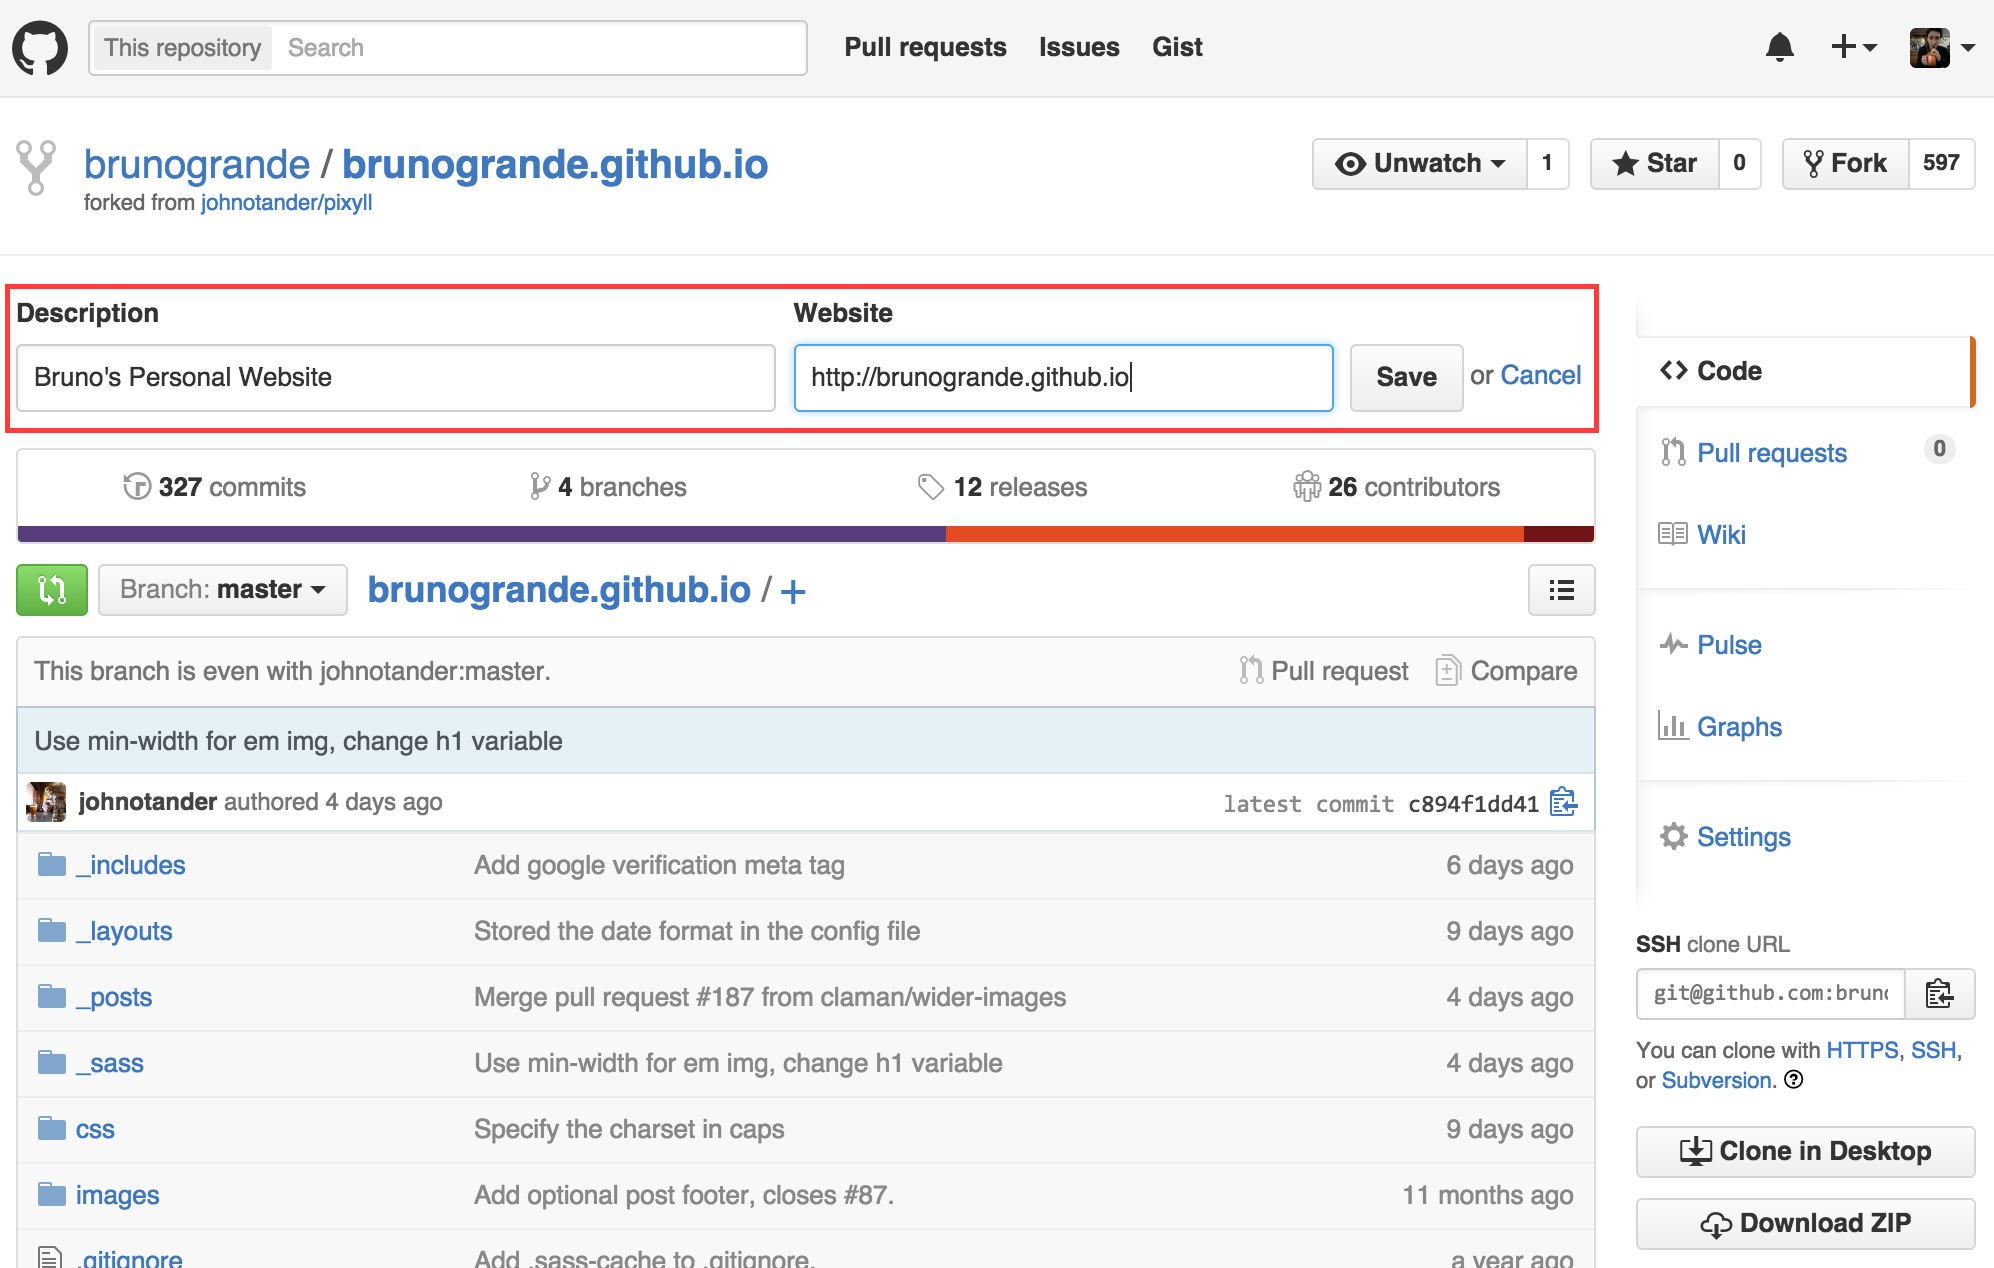
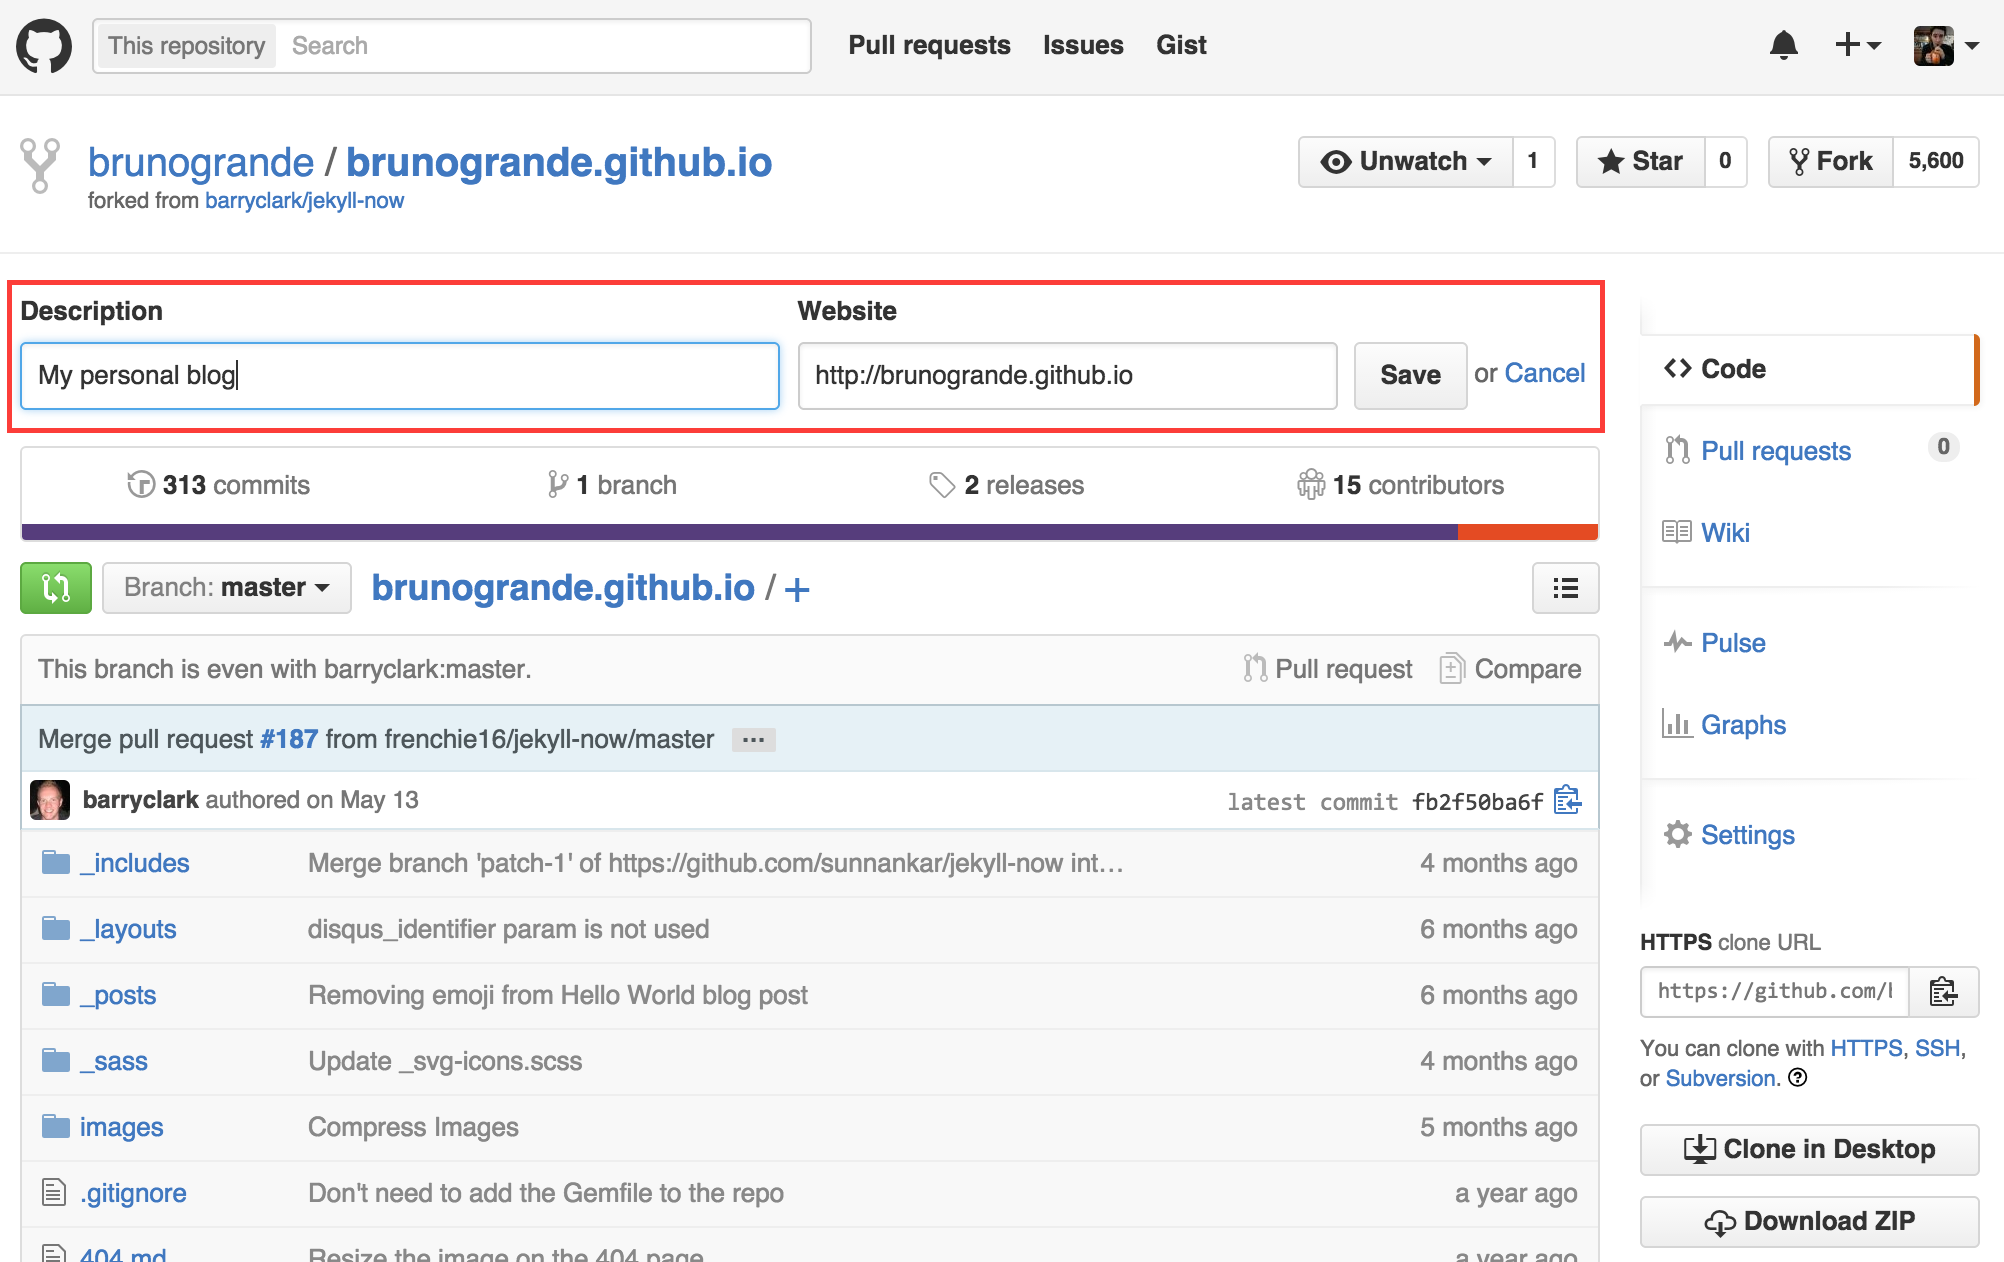
updated lesson to use jekyll now template

diff --git a/lesson/lesson.md b/lesson/lesson.md
@@ -46,17 +46,15 @@ GitHub Pages. This just comes to show how powerful it can be.
 You can write your own website from scratch, but that takes time
 and knowledge about HTML, CSS, JavaScript and Jekyll, the underlying
 platform used by GitHub Pages. Instead, we'll kickstart our website
-by using a template. For this lesson, I'll be using the [Pixyll template]
-(https://github.com/johnotander/pixyll), but there are [many options]
-(http://jekyllthemes.org/) out there. I mostly learned HTML and CSS by
-starting off with a template and tweaking it bit by bit. You can do the
-same!
+by using a template. For this lesson, I'll be using the [Jekyll Now template]
+(https://github.com/barryclark/jekyll-now), but there are [many options]
+(http://jekyllthemes.org/) out there. 
 
-The Pixyll template repository is owned by [John Otander]
-(https://github.com/johnotander), meaning that we can't edit it as is. 
+The Jekyll Now template repository is owned by [Barry Clark]
+(https://github.com/barryclark), meaning that we can't edit it as is. 
 We need to create a copy of the repository under our account first. This
 is called forking the repository. You may visit the [repository page]
-(https://github.com/johnotander/pixyll) and click the Fork button at the
+(https://github.com/barryclark/jekyll-now) and click the Fork button at the
 top-right. If GitHub prompts your to select an account to store the fork
 under, choose your personal GitHub account. 
 
@@ -70,7 +68,7 @@ address. To rename your repository, visit the Settings page.
 ![Rename](images/2-rename.png)
 
 Let's change the repository's description to something more adequate.
-For example, the description can be "My Personal Website" and the
+For example, the description can be "My personal blog" and the
 website will be the same URL as above, `<username>.github.io`. You
 can edit the description by clicking the "Edit" link beneath the 
 repository name at the top. 
@@ -87,10 +85,11 @@ sure you click the small HTTPS link and then copy the repository link.
 ![Link](images/4-link.png)
 
 Now, open a Bash shell. Navigate to where you want to store your local 
-copy of the website. For instance, I have a `Repos` directory. Then, 
-run the git clone command using the link your copied. Git might ask
-for your GitHub login information. You may avoid this by [setting up
-SSH keys](https://help.github.com/articles/generating-ssh-keys/). 
+copy of the website. For instance, I have a `Repos` directory where I 
+store all of my Git repositories. Then, run the git clone command using 
+the link your copied. Git might ask for your GitHub login information. 
+You may avoid this by [setting up SSH keys]
+(https://help.github.com/articles/generating-ssh-keys/). 
 
 ```bash
 # Create a Repos directory in your home folder
@@ -108,31 +107,45 @@ do next.
 
 ### Personalizing your Website
 
-Now that you've cloned your website repository, we need to make a few
-changes. First of all, we need to delete the file called `CNAME`, 
-whichis meant to be used for custom domains. Otherwise, we'll keep 
-receiving email notifications that the CNAME is already taken. 
+With this template, the first step to personalizing your blog
+is editing the configuration file, namely `_config.yml`. This
+file contains a few site-wide attributes, such as the blog
+title and the image displayed at the top-left. Open `_config.yml`
+and edit it to your liking. 
+
+For the avatar, you can use your GitHub avatar. To get the URL,
+visit your GitHub profile, right-click your profile picture and
+select "Copy Image URL" (or the equivalent in your browser).
+
+----
+
+Those who took the time to install Jekyll can preview their
+blog locally by running the following command in a new Bash shell
+within their blog repository. To install Jekyll, run the command
+`gem install github-pages` (OS X and Linux only; sorry, Windows 
+users). You might have to run it with `sudo` prepended to the 
+command.
 
 ```bash
-# Enter your repository directory
-cd <username>.github.io
-# Delete the CNAME file
-rm CNAME
+jekyll serve --watch
 ```
 
-This is a small change, but let's save it by committing it to the
-Git repository. If you run `git status` in your repository, you'll
-be given a list of changes. Here, we should only have one change: 
-the CNAME file we deleted (see below for example output). 
+----
+
+Now that we've started personalizing our blog, we should save
+this change. In Git parlance, this is called committing. If you
+run `git status` in your repository, you should obtain a list of 
+changed files. In this case, it should only be one file: _config.yml.
+Here's what the output of `git status` should look like.
 
 ```
 On branch master
 Your branch is up-to-date with 'origin/master'.
 Changes not staged for commit:
-  (use "git add/rm <file>..." to update what will be committed)
+  (use "git add <file>..." to update what will be committed)
   (use "git checkout -- <file>..." to discard changes in working directory)
 
-	deleted:    CNAME
+	modified:   _config.yml
 
 no changes added to commit (use "git add" and/or "git commit -a")
 ```
@@ -141,7 +154,7 @@ When we commit a change like this one, it allows us to track each
 edit we make and this grants us the power of reverting a specific 
 change if we mess up. There are two steps to committing a change:
 
-1. Adding the change to the stage. 
+1. Adding the change to the staging area.
 	- This allows us to pick and choose which changes we want to 
 	commit first, in case there are multiple changes in the repository.
 	- In our case, we only have one change, so this step seems a bit
@@ -153,39 +166,44 @@ change if we mess up. There are two steps to committing a change:
 Using the command-line, we achieve these steps as follows. 
 
 ```bash
-# Include all changes made in the repository for the next commit
-# Here, the . refers to the current directory, namely the entire repository
-git add .
+# Add the changed file to the staging area
+git add _config.yml
 # Commit the changes by giving a message describing the change
-git commit -m 'deleted CNAME file'
+git commit -m 'personalized config'
 ```
 
 This change is now registered as a commit locally, but GitHub isn't
-aware of the change yet. For that, we need to push the commits we've 
-created since running `git clone` to GitHub. In this case, we only have
-one. For this, you simply run `git push`. 
+aware of the change yet. If you were to visit the repository's GitHub
+page, you will notice that `_config.yml` is unchanged. In order to sync
+our repositories, namely the one we cloned locally and the one on Github,
+we need to upload our commits. This is done using the `git push` command.
+You might have to enter your GitHub login information here. This is
+to prove that you are indeed the owner of the repository. 
 
 ```bash
-# Push your changes to GitHub.com
+# Upload/push your changes to GitHub
 git push
 ```
 
-Now, if you visit the GitHub page for your website, you should see your
+Now, if you visit the GitHub page for your repository, you should see your
 commit. 
 
 ![Commit](images/5-commit.png)
+
+And if you visit your actual blog URL (`<username>.github.io`), you can
+see your changes live on the Internet! It might take a few minutes for it
+to update.
+
+![Blog](images/6-blog.png)
+
+### Writing Your First Blog Post
 
 ----
 
 #### Challenge Problem 1
 
-Edit the _config.yml file according to your preferences. When you're done, 
-commit and push those changes to GitHub.
-
-**Hint:** If you've installed Jekyll, you can preview your website locally
-by opening a new Bash shell, changing to your repository directory and 
-running `jekyll serve`. There will be a URL (_e.g._ http://127.0.0.1:4000/) 
-you can visit. 
+Edit the `_posts/2014-3-3-Hello-World.md` file as your first blog post. 
+When you're done, commit and push those changes to GitHub.
 
 *Answers to challenge problems are located at the bottom of this lesson.*
 
@@ -195,69 +213,41 @@ After pushing these changes to GitHub, you can visit your website's URL
 (`<username>.github.io`) to see the changes take effect. It might take a 
 few minutes for them to appear online. 
 
-#### Creating our First Blog Post
+### Update the About Page
 
-Next up is creating our first blog post! The Pixyll template makes it 
-painless for us to accomplish this. Blog posts are stored in the _posts 
-subdirectory. We're gonna delete all but one, which we are gonna edit into 
-our own post. Conveniently, there's only one 2015 post, so we're gonna 
-remove all 2014 posts.
-
-```bash
-# Delete all but one blog posts
-rm _posts/2014-*
-```
-
-Let's rename this blog post into our blog inauguration accouncement.
-
-```bash
-# Rename remaining post into something else
-mv _posts/2015-07-11-announcing-pixyll-version-2.md _posts/2015-09-01-first-blog-post.md
-```
-
-Now, open this Markdown file in a text editor and change it to whatever 
-you want while sticking to the template, of course. Leave the layout as  
-`post` and categoriescan be anything you want; they're like tags. For 
-something like this, you can use `general`, but whenever you write more 
-scientific posts, you can use a `science` category.
-
-Here's my example: 
-
-```
----
-layout:     post
-title:      First Blog Post!
-date:       2015-09-01
-summary:    This is my first blog post
-categories: general
----
-
-May this be the beginning of something great!
-
-```
-
-Let's commit and push these changes to GitHub. Since we only changed 
-the contents of the _posts directory, we only need to add it to the 
-staging area.
-
-```bash
-# In this case, we can only add _posts to the staging area
-git add _posts
-# Then, we commit
-git commit -m 'my first blog post!'
-# Let's go live!
-git push
-```
-
-Once again, you can visit your website's URL (`<username>.github.io`) to
-see your blog post go live. You might have to wait a few minutes first. 
+We're getting somewhere. One last major change we need to do is the About 
+page. This will be our second Challenge Problem. Tackle it just like the
+blog post.
 
 ----
 
 #### Challenge Problem 2
 
-Edit the about.md file so that it describes you and what you do. 
+Edit the `about.md` file so that it describes you and what you do. 
 When you're done, commit and push those changes to GitHub.
+
+*Answers to challenge problems are located at the bottom of this lesson.*
+
+----
+
+### Playing Around with Markdown
+
+Now that we've set up our blog, it's time to become familiar with what
+it can do. Blog posts are written in Markdown format. Read [this page]
+(https://guides.github.com/features/mastering-markdown/) for more
+information about Markdown. 
+
+----
+
+#### Challenge Problem 3
+
+Create a new blog post called "Markdown Madness" exploring various 
+Markdown features. Here are a few things you can try out:
+
+- Syntax-highlighted code
+- Tables
+- Blockquotes
+- Strikethrough text (_e.g._ for edits)
 
 *Answers to challenge problems are located at the bottom of this lesson.*
 
@@ -267,39 +257,46 @@ When you're done, commit and push those changes to GitHub.
 
 #### Challenge Problem 1
 
-I changed my _config.yml as follows. I only included the sections I edited. 
+First of all, I changed the name of the blog post file to be
+accurate. 
 
-```yaml
-# Site settings
-title:       Bruno's Blog
-email:       bgrande@sfu.ca
-author:      Bruno Grande
-description: "Where I write about my thoughts and experiences"
-baseurl:     ""
-url:         "http://brunogrande.github.io"
-date_format: "%b %-d, %Y"
+```bash
+mv _posts/2014-3-3-Hello-World.md _posts/2015-09-01-first-blog-post.md
+```
 
-[...]
+Then 
 
-# Optional features
-animated:           true
+```markdown
+---
+layout: post
+title: My First Blog Post
+---
+
+I followed [my own lesson](https://github.com/brunogrande/lesson-github-pages/blob/master/lesson/lesson.md) 
+to create a personal blog using GitHub Pages. This is an easy (and free) way to 
+take control of your online presence. It provides an avenue to share your thoughts
+online and a centralized location to link to all of your other accounts online
+(_e.g._ Twitter, GitHub and ResearchGate).
 ```
 
 Once I'm done with my changes, I can commit and push them to 
 GitHub as follows.
 
 ```bash
-git add .
-git commit -m 'modified config to my liking'
+# Add the _posts directory to the staging area
+git add _posts
+# Commit the change with a descriptive message
+git commit -m 'created my first blog post'
+# Upload/push commits to GitHub
 git push
 ```
 
 #### Challenge Problem 2
 
 Your approach should be the same as in Challenge Problem 1. Here's 
-my `about.md` file. 
+my modified `about.md` file. 
 
-```
+```markdown
 ---
 layout: page
 title: About Me
@@ -313,9 +310,52 @@ In essence, I use computation to answer biological questions. In our lab,
 our questions focus on cancer genomics, a growing field enabled by next-
 generation sequencing. 
 
+### More Information
+
 Check out my [GitHub page](https://github.com/brunogrande) for some of my 
 open-source projects, and [Twitter](https://twitter.com/grandebruno) for my 
 quick thoughts. 
+
+### Contact me
+
+[bgrande@sfu.ca](mailto:bgrande@sfu.ca)
 ```
 
 Once you're done editing your About page, commit and push as usual. 
+
+#### Challenge Problem 3
+
+Everything is available in [this handy guide]
+(https://guides.github.com/features/mastering-markdown/). Still, here's
+an example. 
+
+```markdown
+---
+layout: post
+title: My First Blog Post
+---
+
+Some code:
+
+```python
+print "Hello, world!"
+```
+
+A table:
+
+| Column 1 | Column 2 |
+| -------- | -------- |
+| One      | 1        |
+| Two      | 2        |
+| Three    | 3        |
+
+A blockquote:
+
+> Imagination is more important than knowledge.
+> —Albert Einstein
+
+Some strikethrough text:
+
+I ~~love~~ hate grad school!
+
+```
